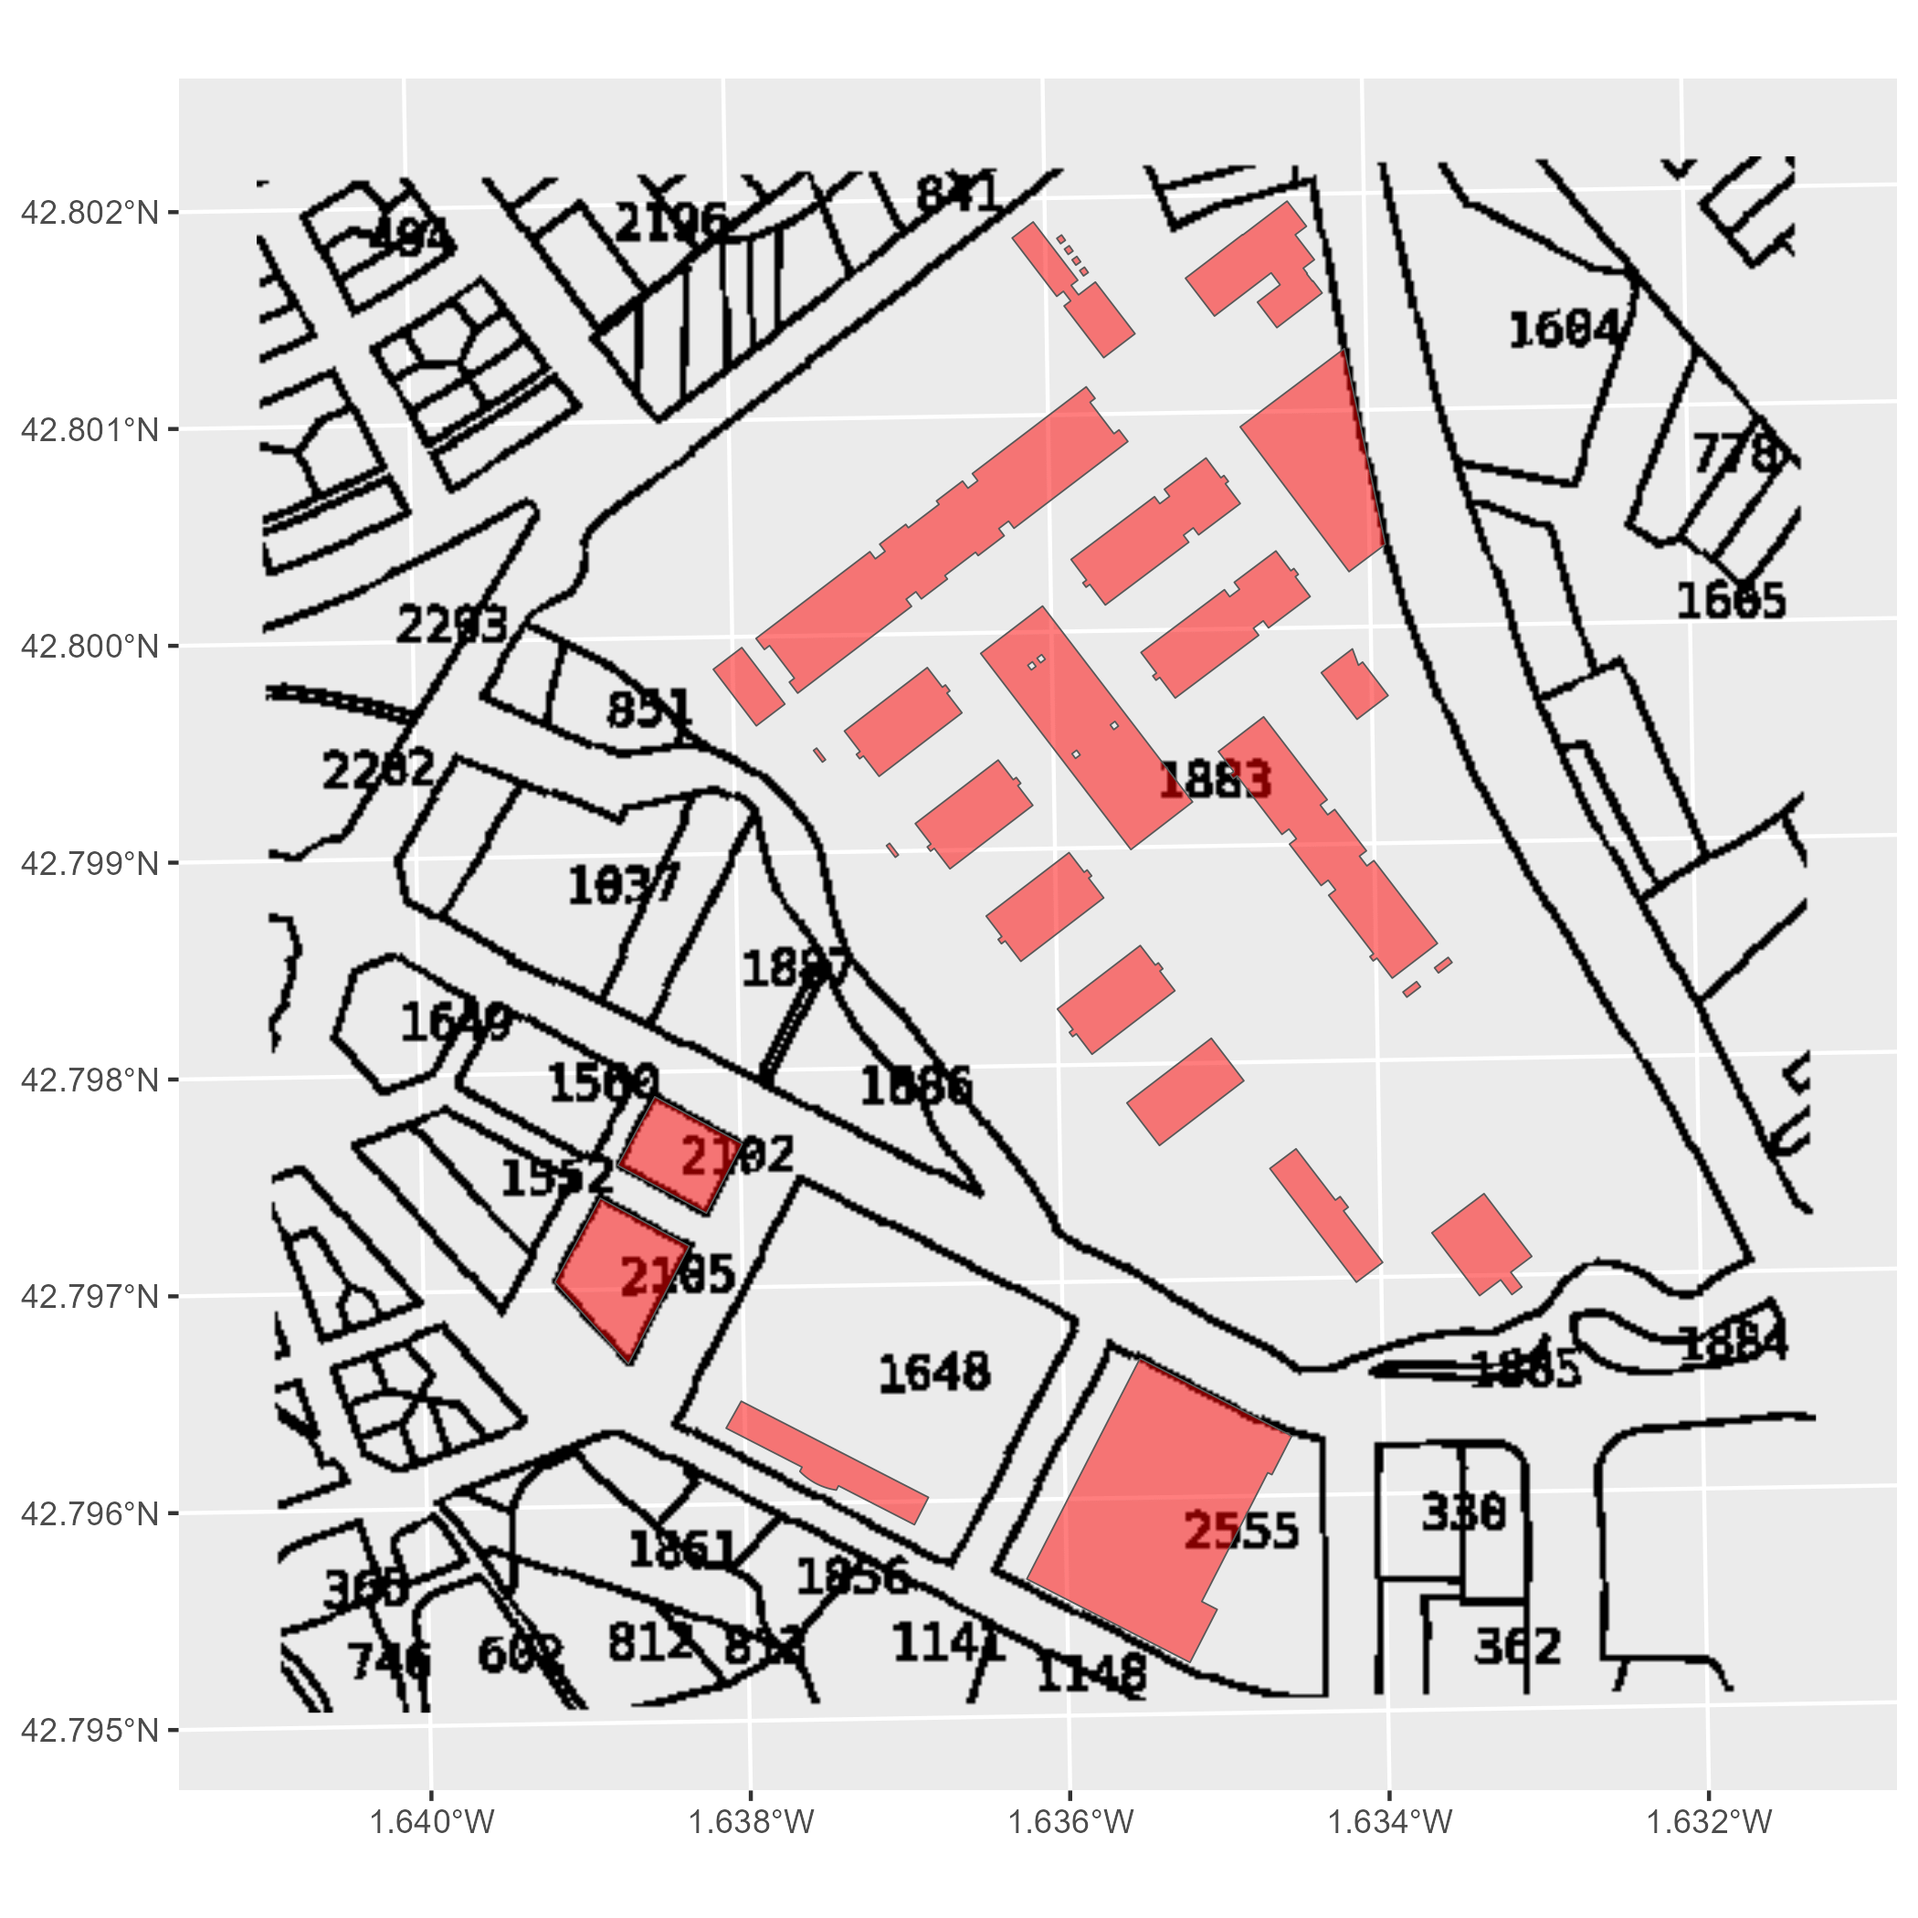
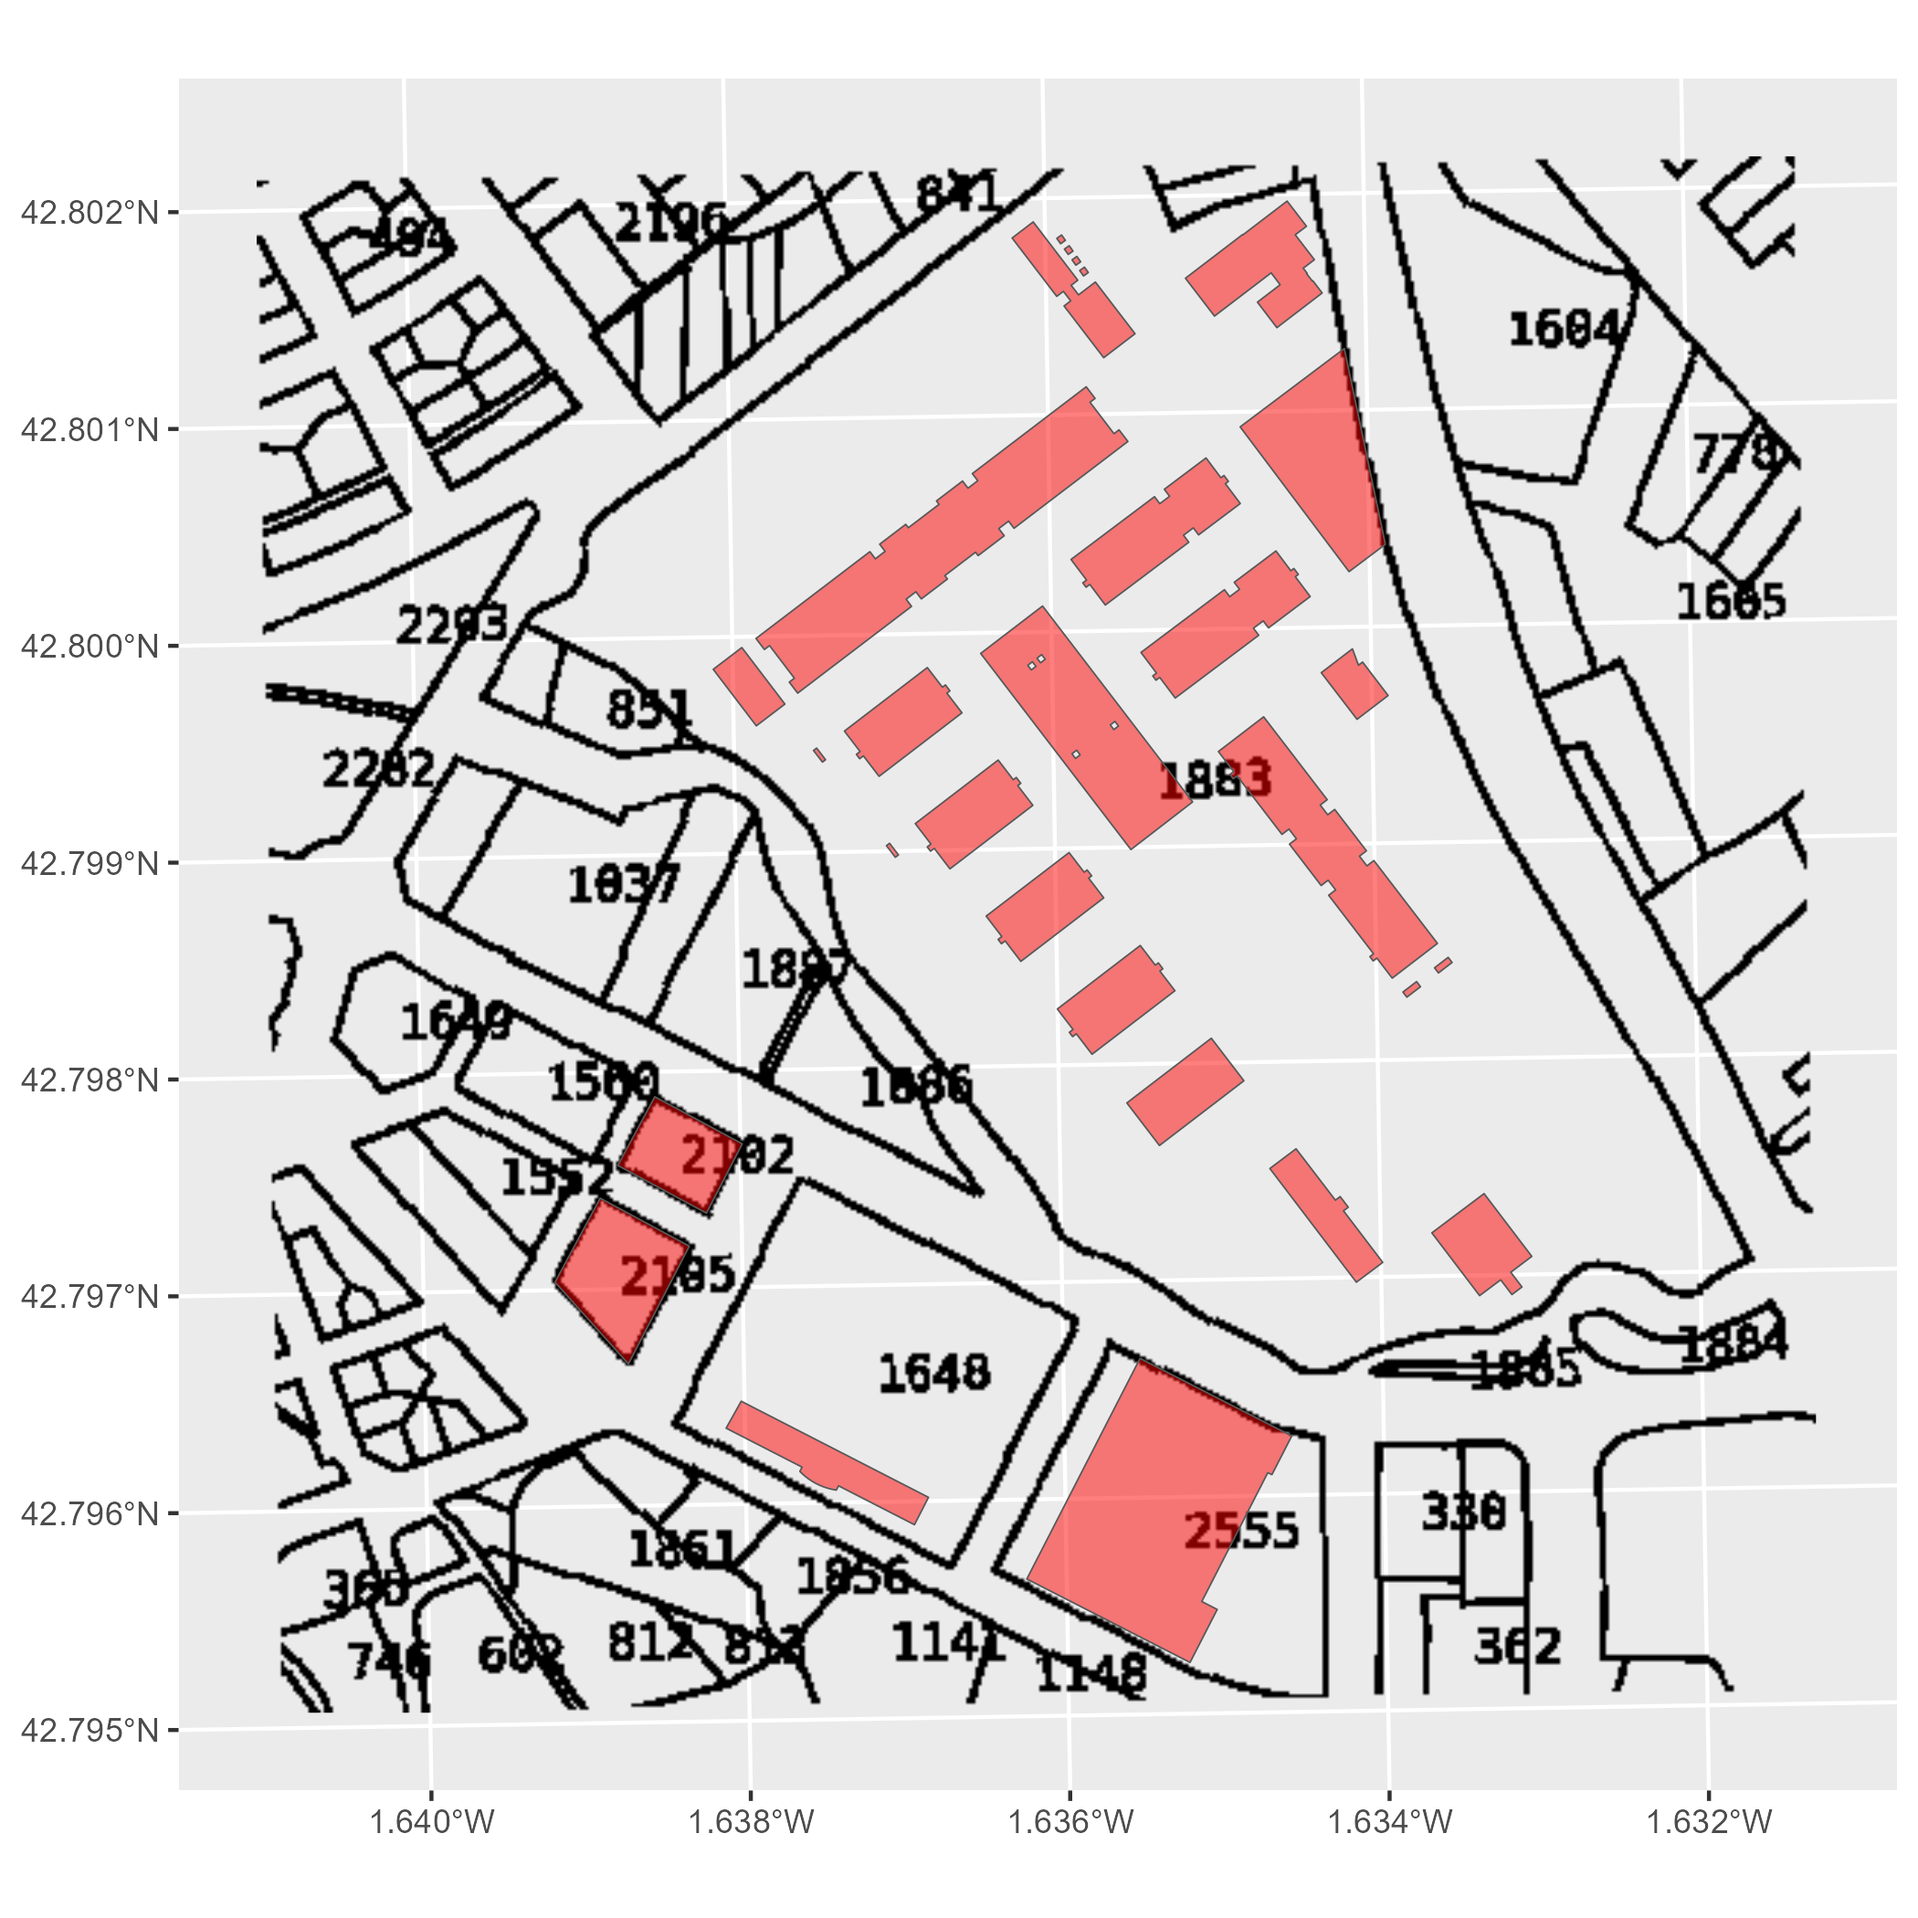
Bump R version

diff --git a/NEWS.md b/NEWS.md
@@ -1,5 +1,6 @@
 # CatastRoNav (development version)
 
+- The minimum supported **R** version is now 4.2.0.
 - **CatastRoNav** users can now configure HTTP timeout and SSL verification with the `CATASTRONAV_TIMEOUT` and `CATASTRONAV_SSL_VERIFY` environment variables. The existing `catastronav_timeout` and `catastronav_ssl_verify` options still take precedence.
 - Downloads now use separate cache subdirectories and preserve valid ATOM files if an update fails. **CatastRoNav** now requires **CatastRo** 1.1.0 or later.
 - ATOM downloads now check file sizes with HEAD requests, report downloads larger than 20 MB and handle HTTP and transport failures consistently with **CatastRo**. Unexpected internal errors are no longer converted to `NULL`.
